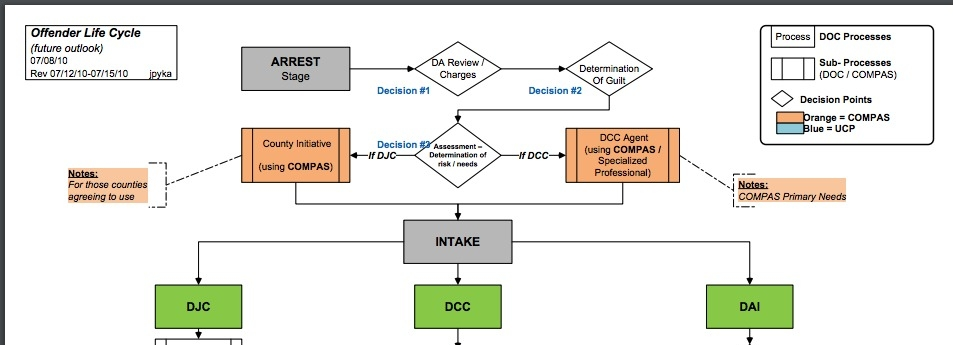
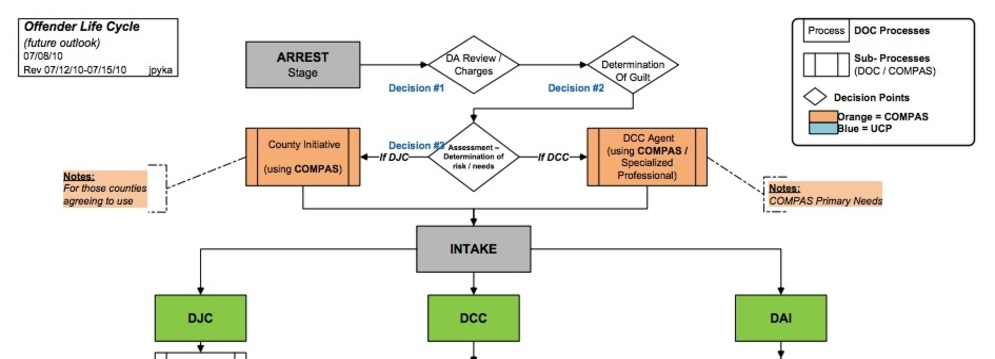
work

Changed region(s): [[0.0609, 0.087, 0.9129, 1.0], [0.0, 0.0, 1.0, 1.0]]

diff --git a/css/aarhus.css b/css/aarhus.css
@@ -1,13 +1,12 @@
-@import url('https://fonts.googleapis.com/css?family=Source+Serif+Pro');
-/* @import url('http://fonts.googleapis.com/css?family=Open+Sans'); */
+@import url('https://fonts.googleapis.com/css?family=Source+Serif+Pro:400,600,700');
 
 body {
   font-size: 170%;
-  font-family: 'Open Sans', sans-serif;
-  font-family: 'Source Serif Pro', sans-serif;
+  font-family: 'Source Serif Pro', serif;
   text-align: center;
-  background-color: black;
-  color: #1fff1f;
+  align: center;
+  background-color: white;
+  color: black;
   width: 100%;
 }
 
@@ -72,10 +71,6 @@ a {
   font-size: 50%;
 }
 
-#title.step {
-  width: 1000px;
-}
-
 #title ul {
   width: 100%;
   position: fixed;
@@ -96,7 +91,13 @@ a {
   padding: 0;
 }
 
-div#wisc p, div#perkins p {
+#perkins p+p, #herle-letter p+p, #herle-fair p+p {
+  font-size: smaller;
+/*   text-align: left; */
+  margin-left: 1em;
+}
+
+#wisc p, #perkins p {
   text-align: center;
 }
 
@@ -104,17 +105,19 @@ div#wisc p, div#perkins p {
   text-align: center;
 }
 
+#herle-fair p {
+  text-align: center;
+}
+
+#rainbow p {
+  text-align: center;
+}
 #herle-exacte-book.step {
   width: 900px;
 }
 
-#herle-exacte-book p {
-  color: white;
-}
-
 #herle-exacte-book ul {
   list-style-type: none;
-  color: white;
   float: right;
 }
 

diff --git a/aarhus.rst b/aarhus.rst
@@ -17,7 +17,18 @@ Reformation theology and state surveillance
 - ..
 - Northwestern University
 - ..
+- & Lucy Parsons Labs
+- ..
 - `mail@pierwill.com`
+
+----
+
+:id: questions
+
+.. QUESTIONS
+
+- What are the ideological underpinnings of surveillance as prediction?
+- What is the role of theology in the history of surveillance?
 
 ----
 
@@ -30,7 +41,9 @@ Reformation theology and state surveillance
 :id: timeline
 
 Chronology
-----------
+==========
+
+.. note:: Religious conflict and English politics
 
 - **1517**
 - ..
@@ -63,17 +76,17 @@ Chronology
 ----
 
 :id: perkins
-:data-scale: 2
 
 .. image:: img/chain.jpg
-	   :height: 750px
+	   :height: 600px
 
-“A ſurvey or Table declaring the order of the cauſes of ſalvation and damnation according to Gods word.” Figure from William Perkins, *The Golden Chain* (London, 1592).
+“A ſurvey or Table declaring the order of the cauſes of ſalvation and damnation according to Gods word,” in William Perkins, *The Golden Chain* (London, 1592).
+
+Image: Folger Shakespeare Library.
 
 ----
 
 :id: perkins-det
-:data-x: r3000
 
 .. image:: img/chain-det2.jpg
 	   :width: 1000px
@@ -84,9 +97,9 @@ Chronology
 :id: wisc
 
 .. image:: img/wisc.jpg
-	   :height: 750px
+	   :height: 600px
 
-Wisconsin Department of Corrections “Offender Life Cycle.” (Source: Julia Angwin, Jeff Larson, Surya Mattu and Lauren Kirchner, “Machine Bias,” *ProPublica*, May 23, 2016.)
+Wisconsin Department of Corrections, “Offender Life Cycle.” Published in Julia Angwin et al., “Machine Bias,” *ProPublica*, May 23, 2016.
 
 ----
 
@@ -97,13 +110,14 @@ Wisconsin Department of Corrections “Offender Life Cycle.” (Source: Julia An
 
 .. image:: img/wisc-det2.jpg
 	   :width: 1000px
-		   
+
 ----
 
+:data-scale: 3
+:data-x: r-7000
+:data-y: r3000
+
 :id: both-img
-:data-x: r-9000
-:data-y: r4000
-:data-scale: 4
 
 .. image:: img/chain.jpg
 	   :width: 50%
@@ -119,24 +133,46 @@ Wisconsin Department of Corrections “Offender Life Cycle.” (Source: Julia An
 
 ----
 
-:id: herle-letter
-:data-x: r10000
+:data-x: r5000
 :data-y: r0
+
+.. note:: Note
+
+----
+
+:id: rainbow
 :data-scale: 3
+:data-x: r5000
+
+.. image:: img/rainbow.jpg
+	   :height: 700px
+
+The “Rainbow Porait,” attrib. Marcus Gheeraerts the Younger, circa 1600.
+
+----
+
+:id: herle-letter
+:data-scale: 1
 
 .. image:: img/herle.jpg
-	   :height: 750px
+	   :height: 600px
 
-Letter by William Herle, 1571. (Source: Centre for Editing Lives and Letters, University College London.)
+Letter by William Herle, 1571.
+
+Image: Centre for Editing Lives and Letters, University College London.
 
 ----
 
 :id: herle-fair
-
+:data-y: r1000
+:data-x: r0
+     
 .. image:: img/herle-fair.jpg
-	   :height: 750px
+	   :height: 600px
 
-A letter by Herle in a fair copy by one of Burleigh’s secretaries. (Source: Centre for Editing Lives and Letters.)
+A letter by Herle in a fair copy by one of Burleigh’s secretaries.
+
+Image: Centre for Editing Lives and Letters, University College London.
 
 ----
 
@@ -152,58 +188,18 @@ ytt asketh then (so plesing your highnes) an exacte booke, describeng every part
 
 - Herle to Elizabeth I, October 1571
 
-----
-
-.. note:: Paper
-
-   BEGIN[#1] WITH WILLIAM PERKINS AND WISCONSIN ALGORITHM.  A godlike view of time and a individual fate from above. Process or sequence?  What kind of structure Cause and effect? COMPAS is a decision tree in prospective view, PERKINS is a decision tree in eternity.
-
-   I argue state surveillance BEGAN under a religious culture, our historically informed understandings and critiques should not try to reinvent the wheel, but rather use theology CATEGORIES to help understand the cultural and social complexities with less reduction to today’s technical methods.
-
-   Predestination implied the existence of information that could infallibly predict a persons future.  That information is secret and accessible only to God. Today we’re seeing a different belief that information about a person can help predict and judge their future actions. Where does this faith that more information will reveal the future come from? From mathematics, pragmatics, politics? We take it for granted that the future is uncertain, but we no longer believe in a divine sovereignty over the future. With predestination we can look to the pre-secular past as a model for thinking about the emerging paradigms of knowledge and prediction in these times.
-
-   Predestination is an important paradigm of knowledge from above judging and determining an individual’s future; because for God, to know and to do are the same thing. Predestination follows from God’s omniscience: if God knows everything, he knows all of eternity, so he knows and has already chosen those who will be saved.
-
-   Today’s surveillance practices like “predictive policing” operate as a kind of secular version of predestination. (David Lyon has written about panoptic surveillance as “secular omniscience.”)[fn:1] The watcher comes to “know” the (likely) future through data collection in the present, and this knowledge is transmuted into judgment. But concerns about the erosion of free will by secular omniscience look different when accepting predestination on faith, and paradoxically as threat and comfort. If we think in historically appropriate theological terms about predestination, we find a structure for thinking about the politics and discourses of knowledge and future in our own surveillance societies.
-
-   In her beautiful and important book Carceral Capitalism, Jackie Wang writes in our racialized security states, “uncertainty is presented as an information problem.” Inherited from both finance capitalism and scientific research, “big data” often aims to mitigate risk. More information equals a better prediction of the future. But as the Church of Scotland has recently written, “God does not gather information about us.”
-
-   Three things about sixteenth-century England make it good for thinking about surveillance: 1) the assumption of divine omniscience meant that human secrecy could only be relative, 2) it is before the elaboration of bourgeois notions of privacy that can gum up our thinking, and 3) it is before the disciplinary mechanisms of the nineteenth century. This allows us to look elsewhere for surveillance—into the theological realm. In this world, theological concepts like predestination are necessary for talking about knowledge-over, knowing and judging secret intentions and futures.
-
-   God’s omniscience was a given in the sixteenth century. If God is omniscient, then no one can keep a secret from God. God knows all secrets, intentions, and purposes, even those we ourselves do not. I call this divine surveillance: that aspect of God’s omniscience that makes human secrecy no more than relative, and implies – like Augustine’s confession – secrets beyond any other form of surveillance. The Reformation further internalized this surveillance for the individual believer, removing much of the priest’s mediating surveillance and emphasizing the necessity of salvation by faith alone. In doing so, I argue, the Reformation introduced new kinds of secrecy and surveillance. It did so in England especially by the political divisions it created. Suddenly, you could be a secret Catholic. Elizabeth’s government worried about Catholic plotters and assassination attempts.
-
-   Into this rift across Europe, with a main fault line through England, Calvin’s writings added a powerful concept of predestination. For Calvin predestination is, above all, secret. “An admirable secret of the judgement of God.” Predestination as a doctrine is multiple in its secrecy. It means that the ultimate fate of each individual soul is a secret: to itself and to others, but not to God. Moreover, it is presented in such a way that the doctrine itself is secret. Calvin says that to inquire too far into the workings of predestination is to enter into impossible labyrinth. (This makes his chapter on predestination rich in paradox.) The English Articles of Faith call it “God’s counsel, secret to us.” So not only does the doctrine entail a secret state of affairs for each individual concerning his or her election, but the truth of the doctrine itself is secret. [[Mention the black-box nature of machine learning and neural network algorithms.]]
-
-   Put simply, predestination injects secret, inaccessible knowledge into a compartment in each individual. When reformers, especially Calvin, began to emphasize this doctrine, it had profound political implications. How could the soul’s secret compartment not be politicized, militarized, surveilled, or desired? Every citizen, soldier, noble, counsellor, even monarch is predestined to election or damnation—and might be secretly be a Catholic conspirator.
-
-   Divine surveillance—with all its paradoxes of jealous power and loving care—is the ideal and model of state surveillance in Elizabeth England. The monarch is the image of God, and should approximate omniscience in caring for her subjects, but of course can never attain it.  Still, just as all knowledge is an image of God’s knowledge, and all power an image of God’s power, all gathering of knowledge for power is an image of God’s knowledge as power.
-
-   Predestination is part of the broader concept of providence. Providence refers to God’s government of the world and history according to his divine plan. its the wider implications of predestination for a society of kingdom, or body politic, the larger course of history. God’s knowledge is eternal, both of individual fates and his providential plan for all of creation and all of history. So surveillance in Reformation England doesn’t take place to alter the course of history. That is already decided by God’s providence. Instead, it is done in furtherance of God’s plan, to know it better, and serve it.
-
-   Importantly, belief in divine providence WAS SHARED between Catholic and Protestant.” Providence applies to both Protestants and Catholics, who both saw themselves as eventual victors in a cosmic struggle. (Also, it is important that predestination is not an exclusively Protestant invention. Augustine had written about it in the fifth century, and the Council of Trent reaffirmed the doctrine's truth in 1564. The difference lay in emphasis.)
-
-   In 1569, a large but short-lived rebellion by two Northern nobles became first large-scale test of the Elizabethan Settlement (wherein a compromise was made allowing Catholics to retain their old beliefs in exchange for hefty fines and loss of some privileges). Elizabeth famously made these policies “not liking to make windows into men’s hearts and secret thoughts.” But after the rebellion, official sermons (which were required listening) included a new homily against rebellion (featuring the verse from Ecclesiastes that Michael told us about.) After the Northern Rebellion predestination and providential futurity were deployed as intellectual weapons.
-
-   SUMMARIZE NORTON IN TWO SENTENCES
-
-   In 1571 a little-known spy and sometime diplomat named William Herle wrote to Queen Elizabeth with an entrepreneurial proposal. (Has anyone here heard of William Herle?) He wanted to be put in charge of a “survey of strangers.” (This might be the earliest known usage of the term “survey” in English to mean large-scale government information gathering on individuals—“surveillance” in the modern sense.) The presence of foreigners and the international political situation (with Spain and the Netherlands, France) writes Herle, is dangerous: “presaigeng som mete fere to be had.” A lack of centralized information about foreigners and possible “underminers” leaves “the cheeff mistery unknowen.” Herle’s language is not technically theological (nor would it be), but its underlying logic assumes a providential future to be known beforehand (presaged) and charged secrets (mystery) to be found out by a “survey.” It is the language of faithful, loving fear of the future. Herle emphasizes Elizabeth’s care for her subjects throughout his letter.
-
-   Herle proposes the creation of a register of all foreigners10, what their faith is, what they’re doing in England, etc. He says:
-
-   ytt asketh then (so plesing your highnes) an exacte booke, describeng every parte of your Reallme…… The which substancially deciphred, might appere from tyme to tyme, as a certayn monument satisfieng every dowtt… & if the remnant were throwly deciphred, it were a grett assuranc to the state. Again Religion shold be the more assured, & mani execrable sectes eschewed, which kindle men dangerowsly bothe against God & their Soveraigne.
-
-   I think this “exact book” can be (and would have been) understood as a shadow of the Book of Life—the persistent metaphor for predestination in biblical and religious literature.  (Maybe the Domesday Book as well, though I’m less sure about this.) Herle was a down-on-his-luck character, and his survey’s appearing “from time to time” is a canny bid for employment. More cannily, though, Herle’s program provides an answer to the challenges of Norton’s allegory. The Trojan Horse cannot be searched if it is fated to succeed. Providentia (providence) the scholastics tell us is a species of prudentia (prudence). But prudence demands that steps be taken to assuage doubt, whatever the fears; like Calvinist’s austere devotion.
-
-   * Footnotes
-
-     [fn:1] Lyon
-
-----
-
 ..
+
+----
+
+.. note:: blank
 
 ----
 
 :id: lpl
 
-.. image:: img/lpl-logo-color-black-bgWEB.png
+.. image:: img/lpl-logo-colorWEB-border.png
+	   
+----
+
+.. note:: END
